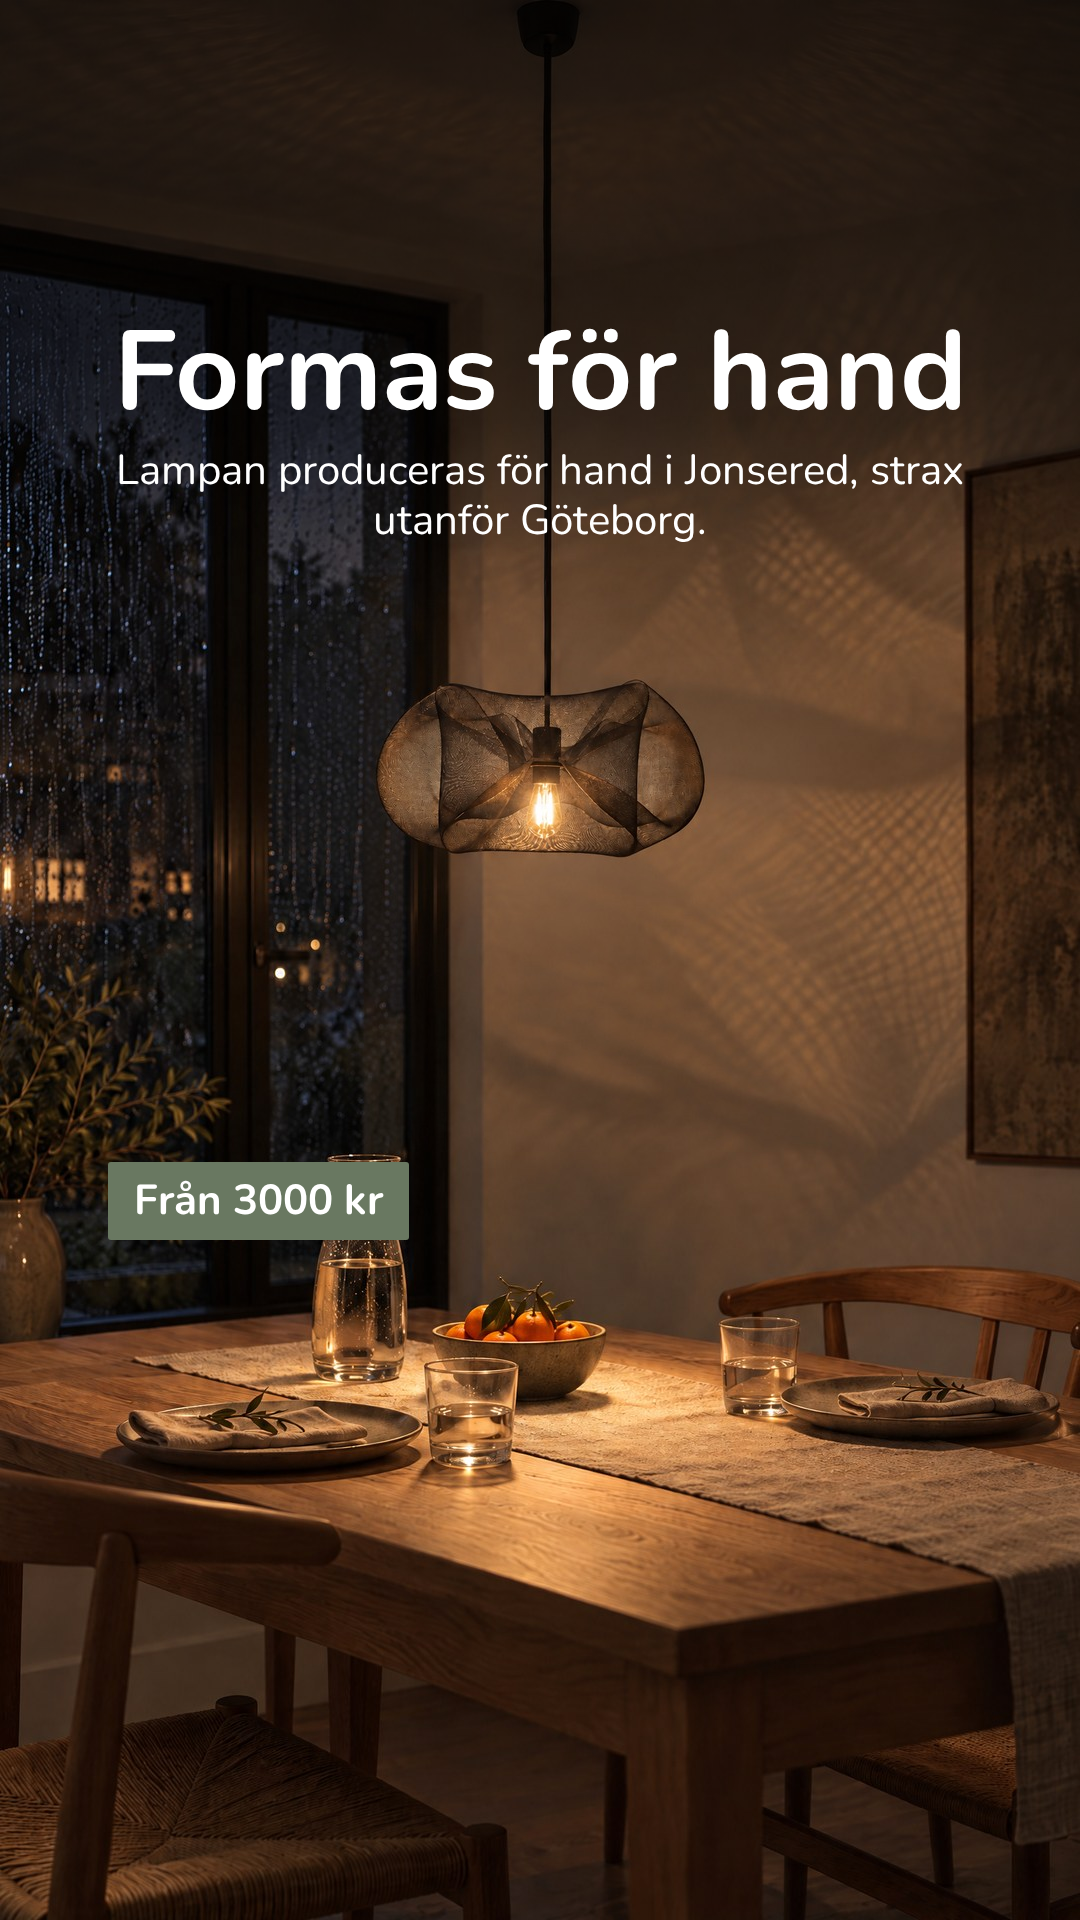
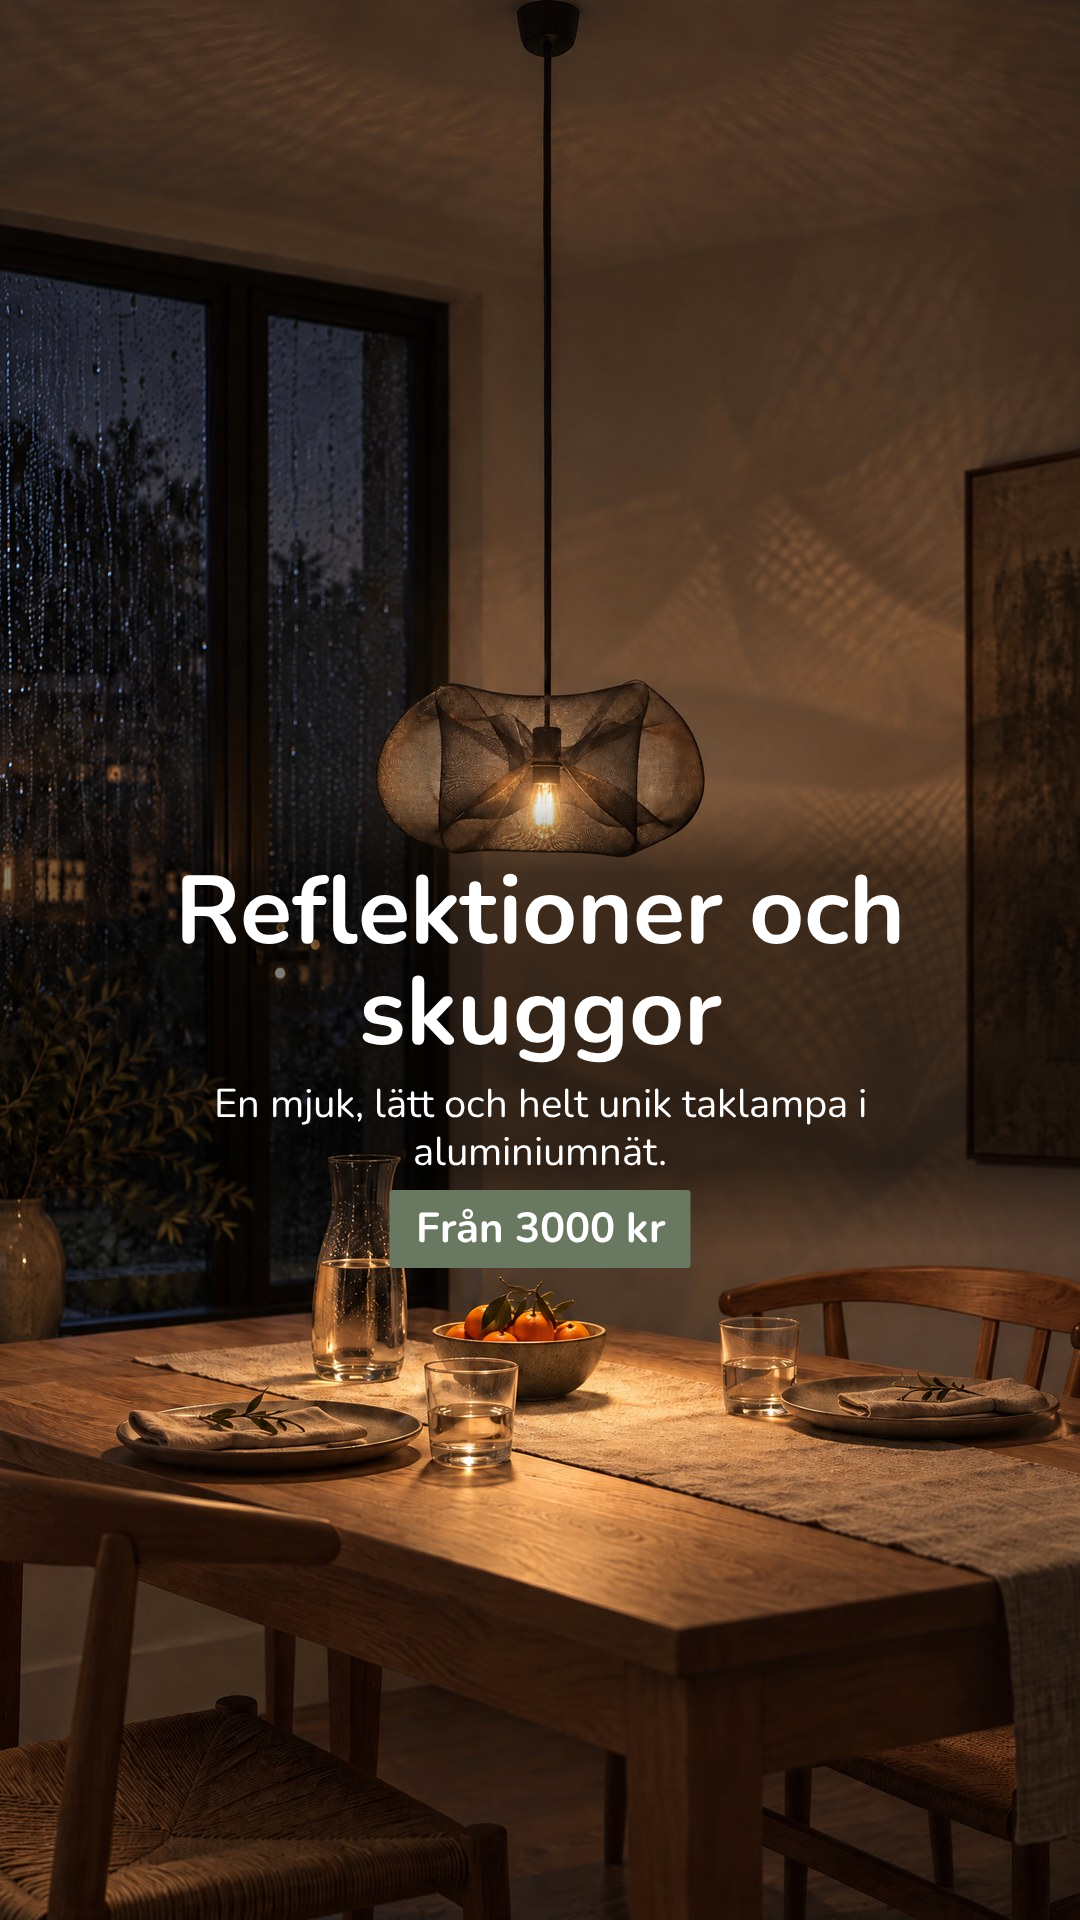
MADE IN GBG varv 2 (Martin 2026-11-04 20:36, labbet), Bildgranskaren ok med anmärkningar: annons-1 92c90395 (F1, ny scen Scrunchie Koppar Large), annons-2 48e7ce10 (F1, ny text längre ner), annons-3 cd7f9319 (F4b, text under lampan, prislappen längst ner). Varv 1 arkiverade i madeingbg/tidigare-v1/.

diff --git a/madeingbg/index.html b/madeingbg/index.html
@@ -159,7 +159,7 @@ a{color:inherit}
   <section class="table" aria-label="Era tre annonser">
     <div class="sticker">De är era, ladda ner</div>
     <div class="fan">
-      <figure class="print" style="margin:0"><img src="annons-1.png" alt="Annons 1 för Lotus taklampa" loading="eager"><a class="dl" href="annons-1.png" download><span>Annons 1</span><span>Ladda ner</span></a></figure>
+      <figure class="print" style="margin:0"><img src="annons-1.png" alt="Annons 1 för Scrunchie taklampa" loading="eager"><a class="dl" href="annons-1.png" download><span>Annons 1</span><span>Ladda ner</span></a></figure>
       <figure class="print" style="margin:0"><img src="annons-2.png" alt="Annons 2 för Lotus taklampa" loading="eager"><a class="dl" href="annons-2.png" download><span>Annons 2</span><span>Ladda ner</span></a></figure>
       <figure class="print" style="margin:0"><img src="annons-3.png" alt="Annons 3 för Lotus taklampa" loading="eager"><a class="dl" href="annons-3.png" download><span>Annons 3</span><span>Ladda ner</span></a></figure>
     </div>
